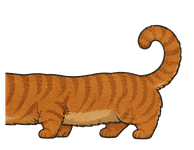
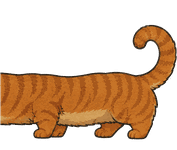
fix(decor): по одной части кота на день отпуска

diff --git a/frontend/app/assets/main.css b/frontend/app/assets/main.css
@@ -22330,43 +22330,81 @@ body.nk-body-locked {
   pointer-events: none;
 }
 
+/*
+  На каждый день приходится ровно одна часть кота: первый день отпуска —
+  голова, последний — хвост, остальные — тело. Части стыкуются по границам
+  дней и складываются в одного кота.
+
+  Весь отрезок — один элемент, а не рисунок на каждой клетке: клетка дробной
+  ширины (47.5 или 54.1px), каждый фон округлялся до пикселей сам по себе, и
+  на границах дней оставались белые нитки.
+
+  Под головой и хвостом тела нет: тело прижато к padding-box, а дни головы и
+  хвоста вынесены в border-box. Раньше тело лежало под всем рядом и
+  просвечивало вторым телом.
+*/
 .hw-cat-run {
   position: absolute;
+  box-sizing: border-box;
   height: 34px;
+  border: 0 solid transparent;
   background-image: url('/decor/halloween/vac-cat-body.png');
   background-repeat: repeat-x;
-  background-size: auto 34px;
+  background-size: var(--hw-day, 24px) 34px;
   background-position: left bottom;
+  background-origin: border-box;
+  background-clip: padding-box;
 }
 
-/*
-  Отрезок начинается с головы — тело тайлится от её среза (22.2px при высоте
-  34px), иначе под головой окажется обрезок плитки: то самое «второе тело».
-  Голова и хвост садятся на торцы самого отпуска, а не строки недели, поэтому
-  у отпуска через воскресенье или границу месяца вторая голова не растёт.
-*/
 .hw-cat-run.hw-cat-head {
-  background-position: 22.2px bottom;
+  border-left-width: var(--hw-day, 24px);
+}
+
+.hw-cat-run.hw-cat-tail {
+  border-right-width: var(--hw-day, 24px);
 }
 
 .hw-cat-run.hw-cat-head::before,
 .hw-cat-run.hw-cat-tail::after {
   content: '';
   position: absolute;
-  inset: 0;
+  bottom: 0;
+  width: var(--hw-day, 24px);
+  height: 34px;
   background-repeat: no-repeat;
-  background-size: auto 34px;
+  background-size: 100% 34px;
+  background-position: center bottom;
 }
 
 .hw-cat-run.hw-cat-head::before {
+  left: calc(-1 * var(--hw-day, 24px));
   background-image: url('/decor/halloween/vac-cat-head.png');
-  background-position: left bottom;
 }
 
-/* Хвост прижат к правому краю и закрывает недотайленный остаток тела. */
 .hw-cat-run.hw-cat-tail::after {
+  right: calc(-1 * var(--hw-day, 24px));
   background-image: url('/decor/halloween/vac-cat-tail.png');
-  background-position: right bottom;
+}
+
+/* Отпуск на один день: голова и хвост делят клетку пополам. */
+.hw-cat-run.hw-cat-head.hw-cat-tail.hw-cat-single {
+  border-left-width: 0;
+  border-right-width: var(--hw-day, 24px);
+}
+
+.hw-cat-run.hw-cat-single::before,
+.hw-cat-run.hw-cat-single::after {
+  width: calc(var(--hw-day, 24px) / 2);
+  left: auto;
+  right: auto;
+}
+
+.hw-cat-run.hw-cat-single::before {
+  left: 0;
+}
+
+.hw-cat-run.hw-cat-single::after {
+  right: calc(-1 * var(--hw-day, 24px));
 }
 
 

diff --git a/frontend/app/components/HalloweenDecorLayer.vue b/frontend/app/components/HalloweenDecorLayer.vue
@@ -173,9 +173,10 @@ function measureSpot() {
 }
 
 /*
- * Кот в сетке дней. Каждый отрезок подряд идущих дней отпуска внутри строки
- * недели рисуется одной картинкой — слоем поверх карточки месяца. Здесь мы
- * только считаем геометрию отрезков и держим слой в актуальном виде.
+ * Кот в сетке дней. На каждый день приходится ровно одна часть: первый день
+ * отпуска — голова, последний — хвост, остальные — тело. Отрезок подряд идущих
+ * дней внутри строки недели рисуется одним элементом поверх карточки месяца,
+ * здесь считается его геометрия и ширина дня.
  *
  * По клетке рисовать нельзя: клетка шириной 47.5 или 54.1px, каждый фон
  * округляется до пикселей сам по себе, и на границах дней рисунок рвался
@@ -183,7 +184,7 @@ function measureSpot() {
  */
 const CAT_H = 34;
 
-type CatRun = { left: number; top: number; width: number; head: boolean; tail: boolean };
+type CatRun = { left: number; top: number; width: number; days: number; head: boolean; tail: boolean };
 
 function collectRuns(table: Element): CatRun[] {
   const runs: CatRun[] = [];
@@ -210,6 +211,7 @@ function collectRuns(table: Element): CatRun[] {
         left: from.offsetLeft,
         top: from.offsetTop + from.offsetHeight + 1 - CAT_H,
         width: to.offsetLeft + to.offsetWidth - from.offsetLeft,
+        days: last - i + 1,
         head: from.classList.contains('emp-pend-run-start'),
         tail: to.classList.contains('emp-pend-run-end')
       });
@@ -252,10 +254,20 @@ function layoutCatRuns() {
     layer.replaceChildren(
       ...runs.map((run) => {
         const el = document.createElement('div');
-        el.className = `hw-cat-run${run.head ? ' hw-cat-head' : ''}${run.tail ? ' hw-cat-tail' : ''}`;
+        const single = run.days === 1 && run.head && run.tail;
+        el.className = [
+          'hw-cat-run',
+          run.head ? 'hw-cat-head' : '',
+          run.tail ? 'hw-cat-tail' : '',
+          single ? 'hw-cat-single' : ''
+        ]
+          .filter(Boolean)
+          .join(' ');
         el.style.left = `${run.left}px`;
         el.style.top = `${run.top}px`;
         el.style.width = `${run.width}px`;
+        // Ширина дня — от самого отрезка, чтобы части легли ровно по дням.
+        el.style.setProperty('--hw-day', `${(run.width / run.days).toFixed(3)}px`);
         return el;
       })
     );

diff --git a/docs/CHANGELOG.md b/docs/CHANGELOG.md
@@ -4,6 +4,16 @@
 
 ## 2026-10-28
 
+### Декор: на каждый день отпуска — одна часть кота
+
+- Первый день отпуска — голова, последний — хвост, остальные дни — тело, по одной части на день. Части стыкуются по границам дней и складываются в одного кота. Тела под головой и хвостом больше нет: тело прижато к padding-box, а дни головы и хвоста вынесены в border-box элемента.
+- Отрезок подряд идущих дней по-прежнему рисуется одним элементом поверх карточки месяца — иначе на дробной ширине клетки (47.5 или 54.1px) между днями оставались белые нитки.
+- Размер и посадка кота прежние: высота 34px, низ по нижней кромке дня.
+- У `vac-cat-head.png` и `vac-cat-tail.png` срезаны прозрачные поля по бокам (5px слева и 12px справа у хвоста): из-за них перед хвостом был разрыв.
+- Отпуск на один день: голова и хвост делят клетку пополам, получается цельный кот.
+- Пути: `frontend/app/components/HalloweenDecorLayer.vue`, `frontend/app/assets/main.css`, картинки кота.
+- Проверка: `/vacations` → режим «Сотрудник» → ряд дней с заявкой: по одной части на день, голова в начале, хвост в конце, разрывов и повторов нет.
+
 ### Декор: кот рисуется одной картинкой на весь отрезок отпуска
 
 - Кот в календаре сотрудника больше не собирается по клеткам. Каждый отрезок подряд идущих дней отпуска внутри строки недели рисуется одним слоем `.hw-cat-layer` поверх карточки месяца: голова, тело в натуральную величину (плитка 24.25px при высоте 34px) и хвост.
